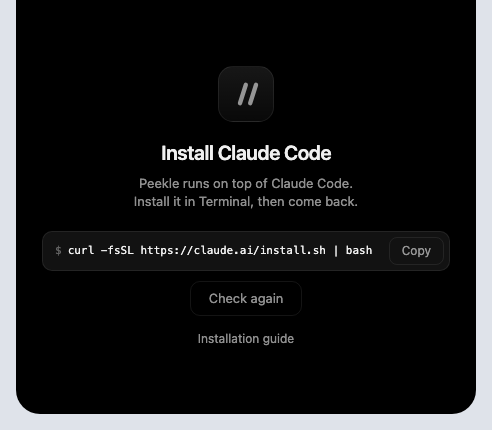
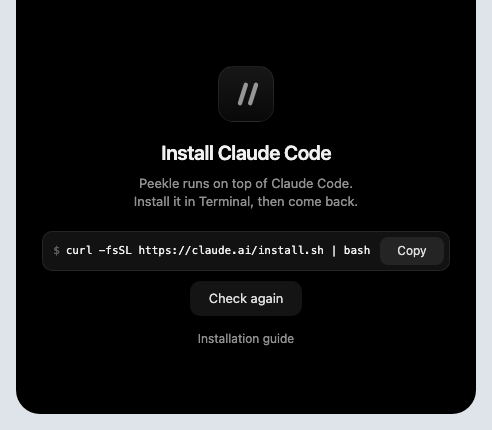
docs: re-render the sign-in shots with quiet buttons and record v83.4
The seven screens of the sign-in window and the two of the sign-out row,
rendered again with the buttons as they are now, and the entry for the
live check that found the outlines and the lost first click.

Changed region(s): [[0.0915, 0.5744, 0.7622, 0.6047], [0.4268, 0.6651, 0.5793, 0.7256], [0.7927, 0.5744, 0.8841, 0.6047]]

diff --git a/features/README.md b/features/README.md
@@ -13,6 +13,7 @@ Screenshots and clips live in [`shots/`](shots).
 
 | Version | Feature                                                                                                                  | Contract             |
 | ------- | ------------------------------------------------------------------------------------------------------------------------ | -------------------- |
+| v83.4   | [The first press is a press](#v834--the-first-press-is-a-press)                                                          | 6.7, 6.16, 9         |
 | v83.1   | [Sign out from the settings](#v831--sign-out-from-the-settings)                                                          | 6.16, 6.5, 9         |
 | v83     | [Sign in picks up the browser](#v83--sign-in-picks-up-the-browser)                                                       | 6.16, 6.5, 6.6, 9    |
 | v82     | [The island floats where there is no notch](#v82--the-island-floats-where-there-is-no-notch)                             | 6.7, 6.5, 6.27, 3, 9 |
@@ -58,6 +59,26 @@ Screenshots and clips live in [`shots/`](shots).
 | v58     | [Usage badge](#v58--usage-badge)                                                                                         | 6.8, 6.10, 6.18, 9   |
 | v57     | [Work line](#v57--work-line)                                                                                             | 6.12, 9              |
 | v56     | [Stop in the field button](#v56--stop-in-the-field-button)                                                               | 6.5, 6.15, 9         |
+
+## v83.4 — The first press is a press
+
+2026-09-14
+
+![Install, with quiet buttons](shots/auth-install.png)
+
+![Update, with quiet buttons](shots/auth-update.png)
+
+Buttons carry no outline any more. A plain button is a quiet fill that gets
+brighter under the pointer; the white one stays solid instead of growing a
+ring, and `Copied` changes the word and nothing else, at a width that leaves
+the command whole. The island also takes the first click: without
+`acceptFirstMouse` the webview spent it on activating the panel, and a button
+answered only on the second press.
+
+Found by a live check of the sign-in window against a fake Claude Code, which
+a debug build now takes from `PEEKLE_CLAUDE`: missing, outdated, signed out,
+approved in the browser, declined, a pasted code, and signing out from the
+settings.
 
 ## v83.1 — Sign out from the settings
 
